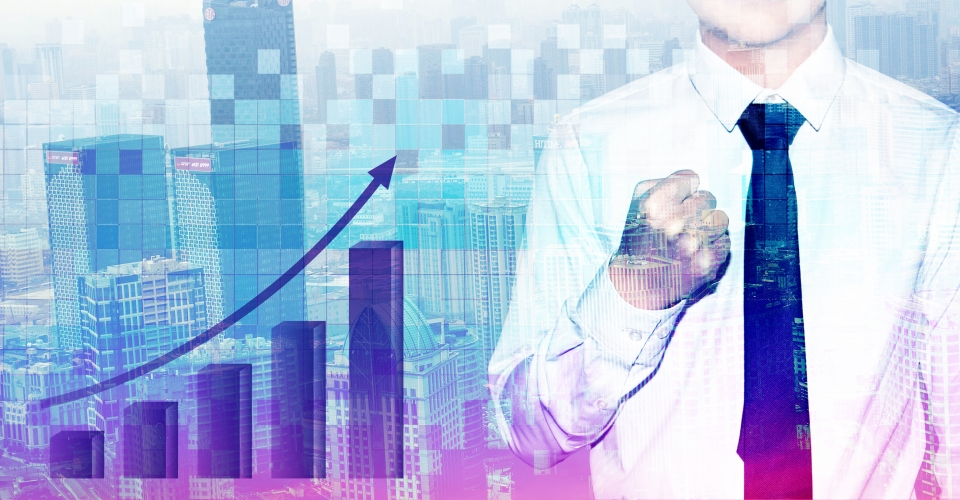
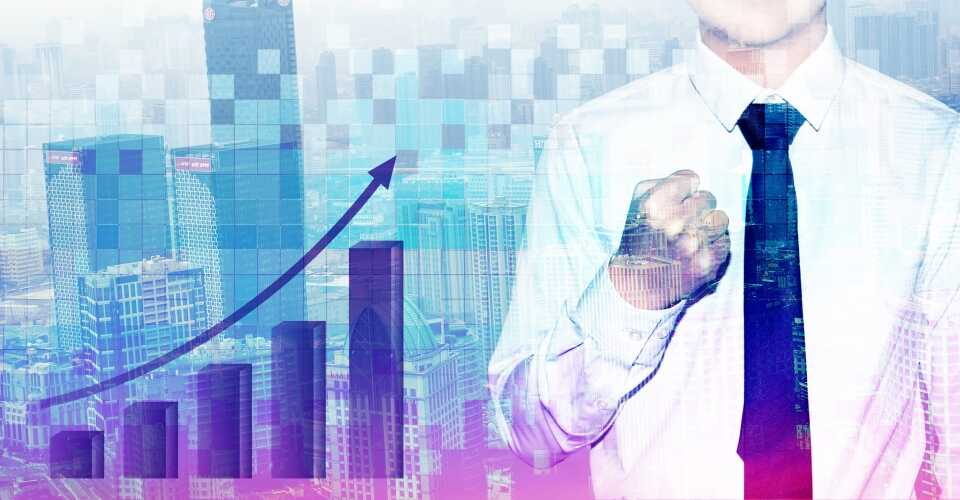
change img path

diff --git a/public/sass/_page.sass b/public/sass/_page.sass
@@ -6,7 +6,7 @@
     grid-template-columns: 1fr
     grid-template-rows: 1fr 400px 1fr
     grid-template-areas: '.' 'container' '.'
-    background-image: url('/img/background-compressed.jpg')
+    background-image: url('/img/background.jpg')
     background-size: cover
 
 .page_container
